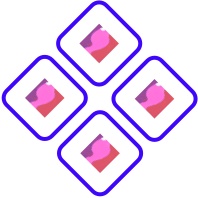
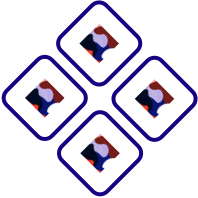
new colors and assets in place

diff --git a/app/index.html b/app/index.html
@@ -112,50 +112,53 @@ function hideMobileMenu() {
   <h2>It's easy to get started!</h2>
   <ol>
     <li>
-      <h3>Just Stop In!</h3>
+      <h3>Visit the Design Lab</h3>
       <p>
-        Create professional-quality, high-resolution prototypes and complex models, 100-micron layer resolution and a 6,717 cm<sup>3</sup> build volume.
+        Open Hours: 9am-5pm, M-F. Contact the Lab Manager for after-hours access
       </p>
     </li>
     <hr>
     <li>
-      <h3>Request Materials</h3>
+      <h3>Explore Materials and Equipment.</h3>
       <p>
-        Create professional-quality, high-resolution prototypes and complex models, 100-micron layer resolution and a 6,717 cm<sup>3</sup> build volume.
+       There are loads of materials and gear to explore right in the lab.
       </p>
     </li>
     <hr>
     <li>
       <h3>Get Making!</h3>
       <p>
-        Create professional-quality, high-resolution prototypes and complex models, 100-micron layer resolution and a 6,717 cm<sup>3</sup> build volume.
+        Hold events or work on personal projects. Use the space to make projects for class or just for fun.
       </p>
     </li>
   </ol>
 </section>
 
 <section class="what-happens" id="lab-uses">
-  <div class="what-happens-inner">
-    <div>
-      <h2>What happens in the lab?</h2>
-      <ul>
-        <li>Make  mixed-reality experiences</li>
-        <li>Sew wearable electronics</li>
-        <li>Build interactive projects</li>
-        <li>Play video and VR games</li>
-        <li>DIY Parties</li>
-        <li>Class Projects</li>
-        <li>Game Jams</li>
-      </ul>
-    </div>
-    <hr>
-    <div>
-      <h2>Lab Manager</h2>
-      <div class="lab-manager">
-        <img src="img/aubrey.png">
-        <p>
-          If you have any questions concerning the lab, you can email Aubrey the design lab manager at <a href="mailto:aubrey.rogowski@aggiemail.usu.edu">aubrey.rogowski@aggiemail.usu.edu</a>
-        </p>
+  <div class="what-happens-wrap">
+    <span class="graphic-bar"></span>
+    <div class="what-happens-inner">
+      <div>
+        <h2>What happens in the lab?</h2>
+        <ul>
+          <li>Make  mixed-reality experiences</li>
+          <li>Sew wearable electronics</li>
+          <li>Build interactive projects</li>
+          <li>Play video and VR games</li>
+          <li>DIY Parties</li>
+          <li>Class Projects</li>
+          <li>Game Jams</li>
+        </ul>
+      </div>
+      <hr>
+      <div>
+        <h2>Lab Manager</h2>
+        <div class="lab-manager">
+          <img src="img/aubrey.png">
+          <p>
+            If you have any questions concerning the lab, you can email Aubrey the design lab manager at <a href="mailto:aubrey.rogowski@aggiemail.usu.edu">aubrey.rogowski@aggiemail.usu.edu</a>
+          </p>
+        </div>
       </div>
     </div>
   </div>
@@ -190,7 +193,7 @@ function hideMobileMenu() {
     <div id="equipment-buttons-R" class="equipment-buttons">
       <a class="equipment-button" href="#">
         <div class="button-icon">
-          <img src="img/icon-materials.png">
+          <img src="img/icon-sundries.png">
         </div>
         <span>Materials</span>
         <div class="equipment-button-arrow"></div>
@@ -199,7 +202,7 @@ function hideMobileMenu() {
         <div class="button-icon">
           <img src="img/icon-sewing.png">
         </div>
-        <span>Sewing Machines</span>
+        <span>Sewing & Embroidery</span>
         <div class="equipment-button-arrow"></div>
       </a>
       <a class="equipment-button" href="#">
@@ -236,7 +239,7 @@ function hideMobileMenu() {
         <div class="equipment-section">
           <div class="equipment-header">
             <img class="equipment-header-icon" src="img/icon-vr.png">
-            <h3>Virtual Reality Rigs</h3>
+            <h3>Virtual Reality</h3>
             <a href="#" onclick="equipmentClose(this); return false;"><img src="img/button-close.png"></a>
           </div>
           <hr>
@@ -322,7 +325,7 @@ The Full Spectrum Laser Hobby Series is the best economy laser cutter on the mar
 </section>
 
 <section class="generic-section" id="community">
-  <h2>Community</h2>
+  <h2>Community & Resources</h2>
   <div class="community-boxes">
     <article class="community-box">
       <h3>Slack</h3>
@@ -335,8 +338,15 @@ The Full Spectrum Laser Hobby Series is the best economy laser cutter on the mar
     <article class="community-box">
       <h3>Instructables</h3>
       <p>Find our How-to's on Instructables!</p>
-      <a href="#">
+      <a href="https://www.instructables.com/" target="_blank">
         <span>Go to Instructables</span>
+      </a>
+    </article>
+    <article class="community-box">
+      <h3>Facebook</h3>
+      <p>Find us on Facebook</p>
+      <a href="https://www.facebook.com/usuitls/?__tn__=%2Cd%2CP-R&eid=ARBqx8Y6Pv-uBLKa82XIEbXBn_79oAu6CvYfubt1xC7tuq6eE6TXWcdRPb1-ein-M5P4UF6-gK1V6Nfr" target="_blank">
+        <span>Go to facebook</span>
       </a>
     </article>
     <!--<article class="community-box">

diff --git a/app/scss/_what-happens.scss b/app/scss/_what-happens.scss
@@ -1,56 +1,71 @@
 @import "colors";
 
 .what-happens {
-  background-image: url('../img/pattern.jpg');
   background-size: cover;
   background-position: center;
   background-attachment:fixed;
   padding: 75px;
-  .what-happens-inner {
+  .what-happens-wrap {
     background-color: white;
     text-align: center;
     border-radius: 10px;
     color: $design-blue;
-    padding: 50px;
-    h2 {
-      text-transform: uppercase;
-      letter-spacing: 0.15em;
+    width: 60vw;
+    margin: 0 auto;
+    box-shadow: 0 0 10px 4px rgba(0, 0, 0, 0.06);
+    border-radius:10px;
+    .graphic-bar {
+      width:100%;
+      height:100px;
+      display:block;
+      background-image: url('../img/pattern-bar.jpg');
+      background-size:cover;
+      border-radius: 10px 10px 0px 0px;
     }
-    li {
-      list-style-type: none;
-      &:before {
-        /* Unicode bullet symbol */
-        content: '\2022';
-        color: rgb(248,123,153);
-        padding-right: 0.2em;
-        font-size: 30px;
+    .what-happens-inner {
+      padding: 50px;
+      text-align: left;
+      h2 {
+        text-transform: uppercase;
+        letter-spacing: 0.15em;
+        text-align:center;
       }
-    }
-    hr {
-      border: 2px solid rgb(238,237,247);
-      margin: 50px 0;
-    }
-    .lab-manager {
-      display: flex;
-      flex-direction: row;
-      align-items: center;
-      justify-content: center;
-      img {
-        width: 70px;
-        height: 70px;
-        border-radius: 999px;
-        background-color: magenta;
-        margin: 15px;
+      li {
+        list-style-type: none;
+        &:before {
+          /* Unicode bullet symbol */
+          content: '\2022';
+          color: rgb(248,123,153);
+          padding-right: 0.2em;
+          font-size: 30px;
+        }
       }
-      p {
-        flex: 1;
-        color: rgb(10,3,30);
-        text-align: left;
-        max-width: 500px;
-        margin: 15px;
-        font-size: 15px;
-        a {
-          font-weight: bold;
+      hr {
+        border: 2px solid rgb(238,237,247);
+        margin: 50px 0;
+      }
+      .lab-manager {
+        display: flex;
+        flex-direction: row;
+        align-items: center;
+        justify-content: center;
+        img {
+          width: 70px;
+          height: 70px;
+          border-radius: 999px;
+          background-color: magenta;
+          margin: 15px;
+        }
+        p {
+          flex: 1;
+          color: rgb(10,3,30);
+          text-align: left;
+          max-width: 500px;
+          margin: 15px;
+          font-size: 15px;
+          a {
+            font-weight: bold;
+          }
         }
       }
     }
@@ -62,7 +77,6 @@
     padding: 20px;
     .what-happens-inner {
       padding: 15px;
-      text-align: left;
       h2 {
         text-align: center;
       }

diff --git a/app/scss/_hero.scss b/app/scss/_hero.scss
@@ -16,14 +16,15 @@
     flex-direction: row;
     align-items: center;
     height:auto;
-    width:80vw;
+    width:60vw;
     font-size:14px;
+    margin:0 auto;
     font-weight:400;
     h1, div {
       margin: 30px;
     }
     .hero-logo {
-      width: 40vw;
+      width: 31vw;
       max-width: 550px;
     }
   }
@@ -37,10 +38,9 @@
       width:100%;
       flex-direction: column;
       h1, div {
-        margin: 5vw;
+        margin: 3vw;
       }
       .hero-logo {
-        width: 100%;
         max-width: none;
       }
     }

diff --git a/app/scss/_get-started.scss b/app/scss/_get-started.scss
@@ -16,7 +16,7 @@
         content: "0" counter(li); /* Use the counter as content */
         counter-increment: li; /* Increment the counter by 1 */
         font-family: League Spartan;
-        color: $design-pink;
+        color: $design-yellow;
         font-size: 60px;
       }
     }

diff --git a/app/scss/_equipment.scss b/app/scss/_equipment.scss
@@ -14,7 +14,7 @@
     align-items: center;
     border-radius: 10px;
     border: 2px solid rgba(0,0,0,0);
-    box-shadow: 0 0 43px 4px rgba(0,0,0,0.1);
+    box-shadow: 0 0 10px 4px rgba(0, 0, 0, 0.06);
     margin: 16px;
     padding: 10px;
     transition: all 0.1s ease-in-out;

diff --git a/app/scss/_colors.scss b/app/scss/_colors.scss
@@ -1,2 +1,4 @@
-$design-blue: rgb(56,0,250);
+$design-blue: rgb(33,39,138);
 $design-pink: rgb(248,110,159);
+$design-red: rgb(236,60,40);
+$design-yellow: rgb(247,199,13);

diff --git a/app/scss/_global.scss b/app/scss/_global.scss
@@ -18,6 +18,7 @@ h1, h2, h3, h4, h5, h6, {
 
 a {
   text-decoration: none;
+  color: $design-yellow;
   &:hover {
     text-decoration: underline;
   }
